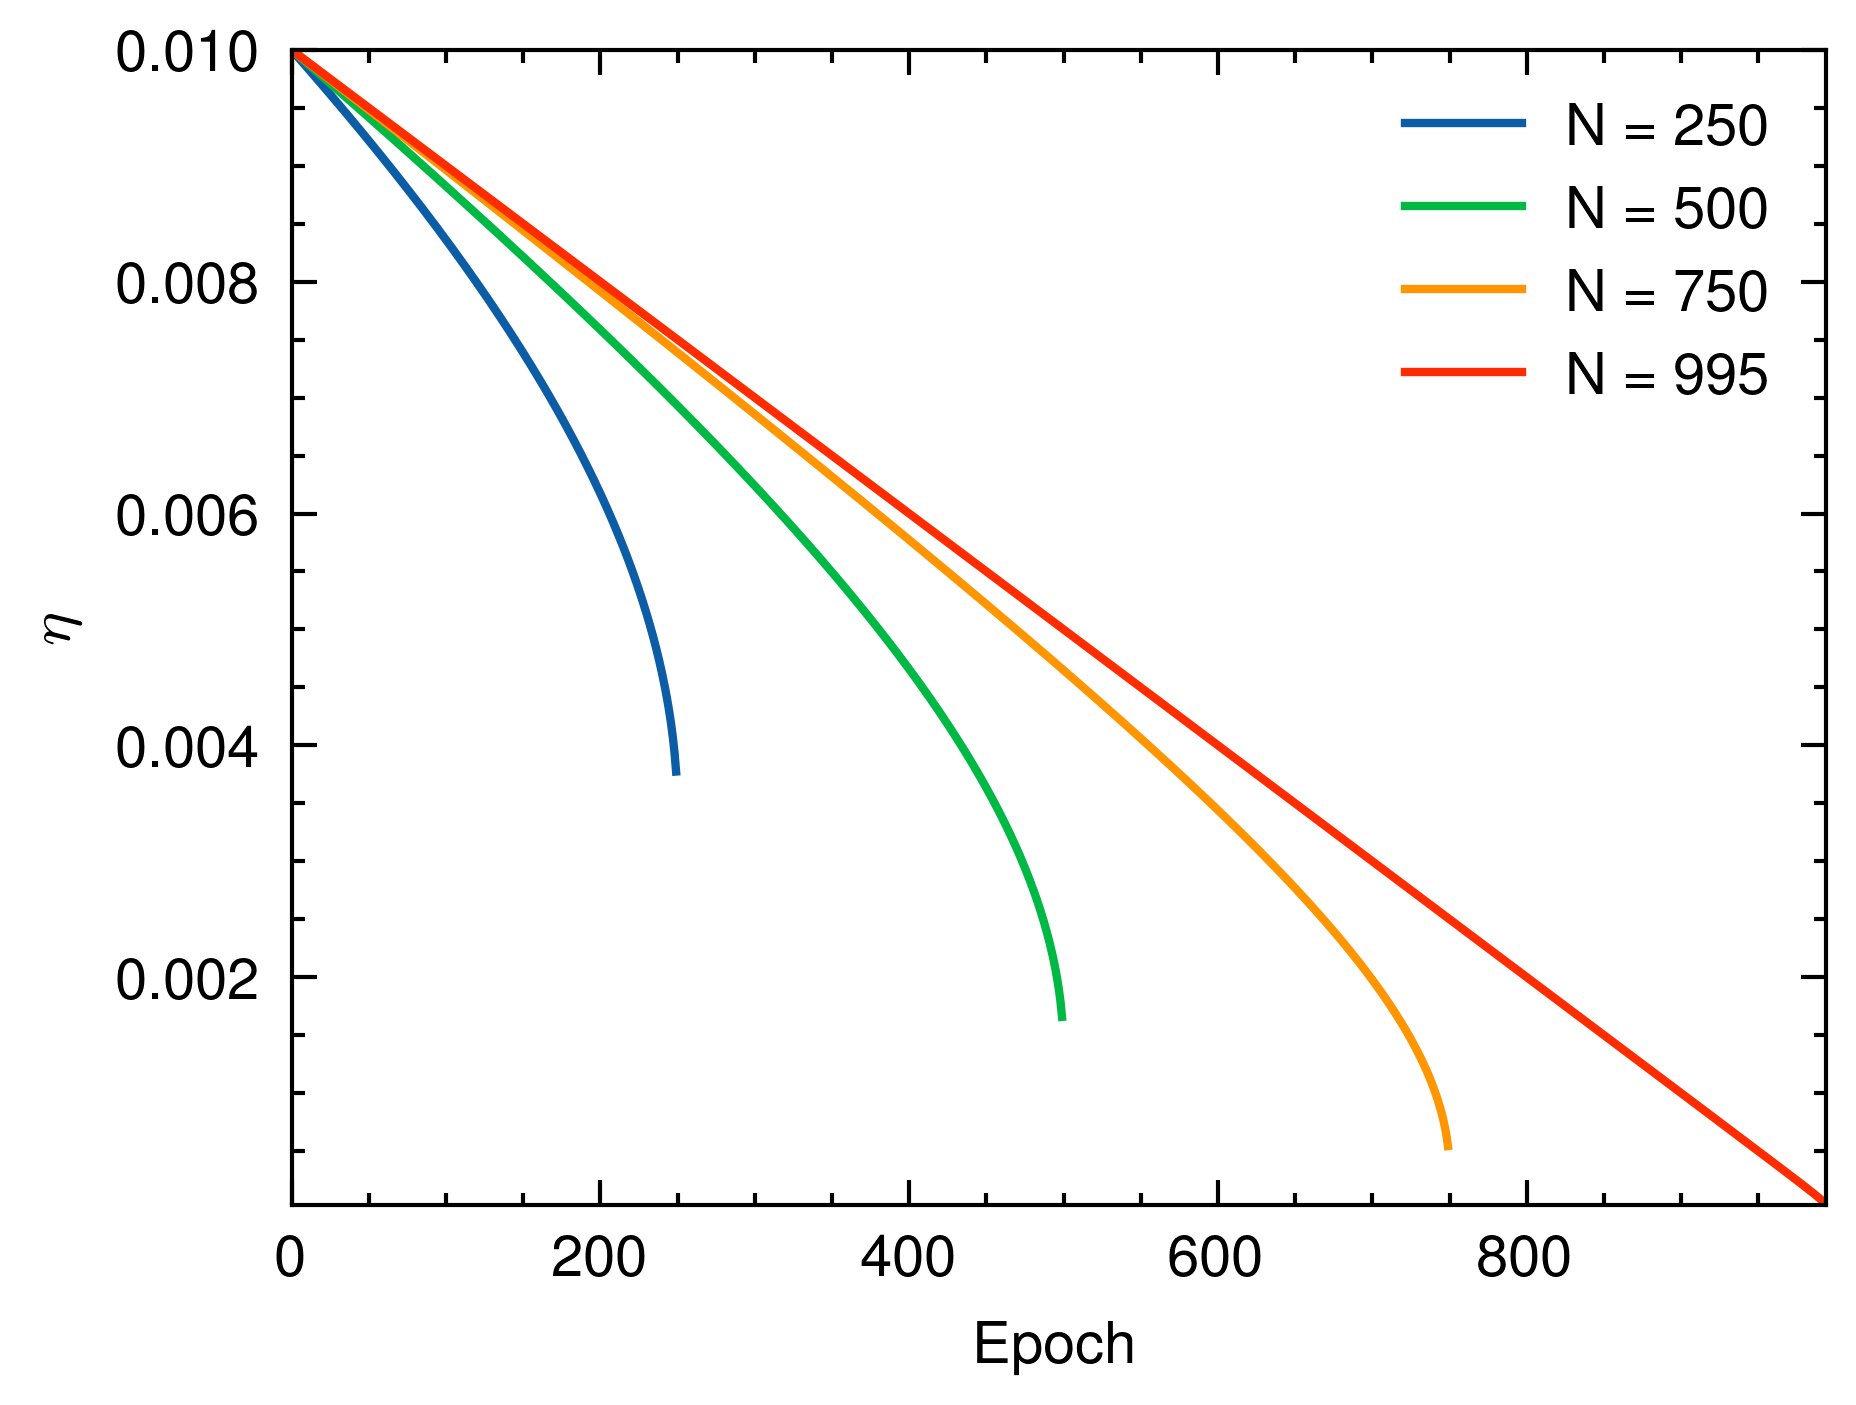
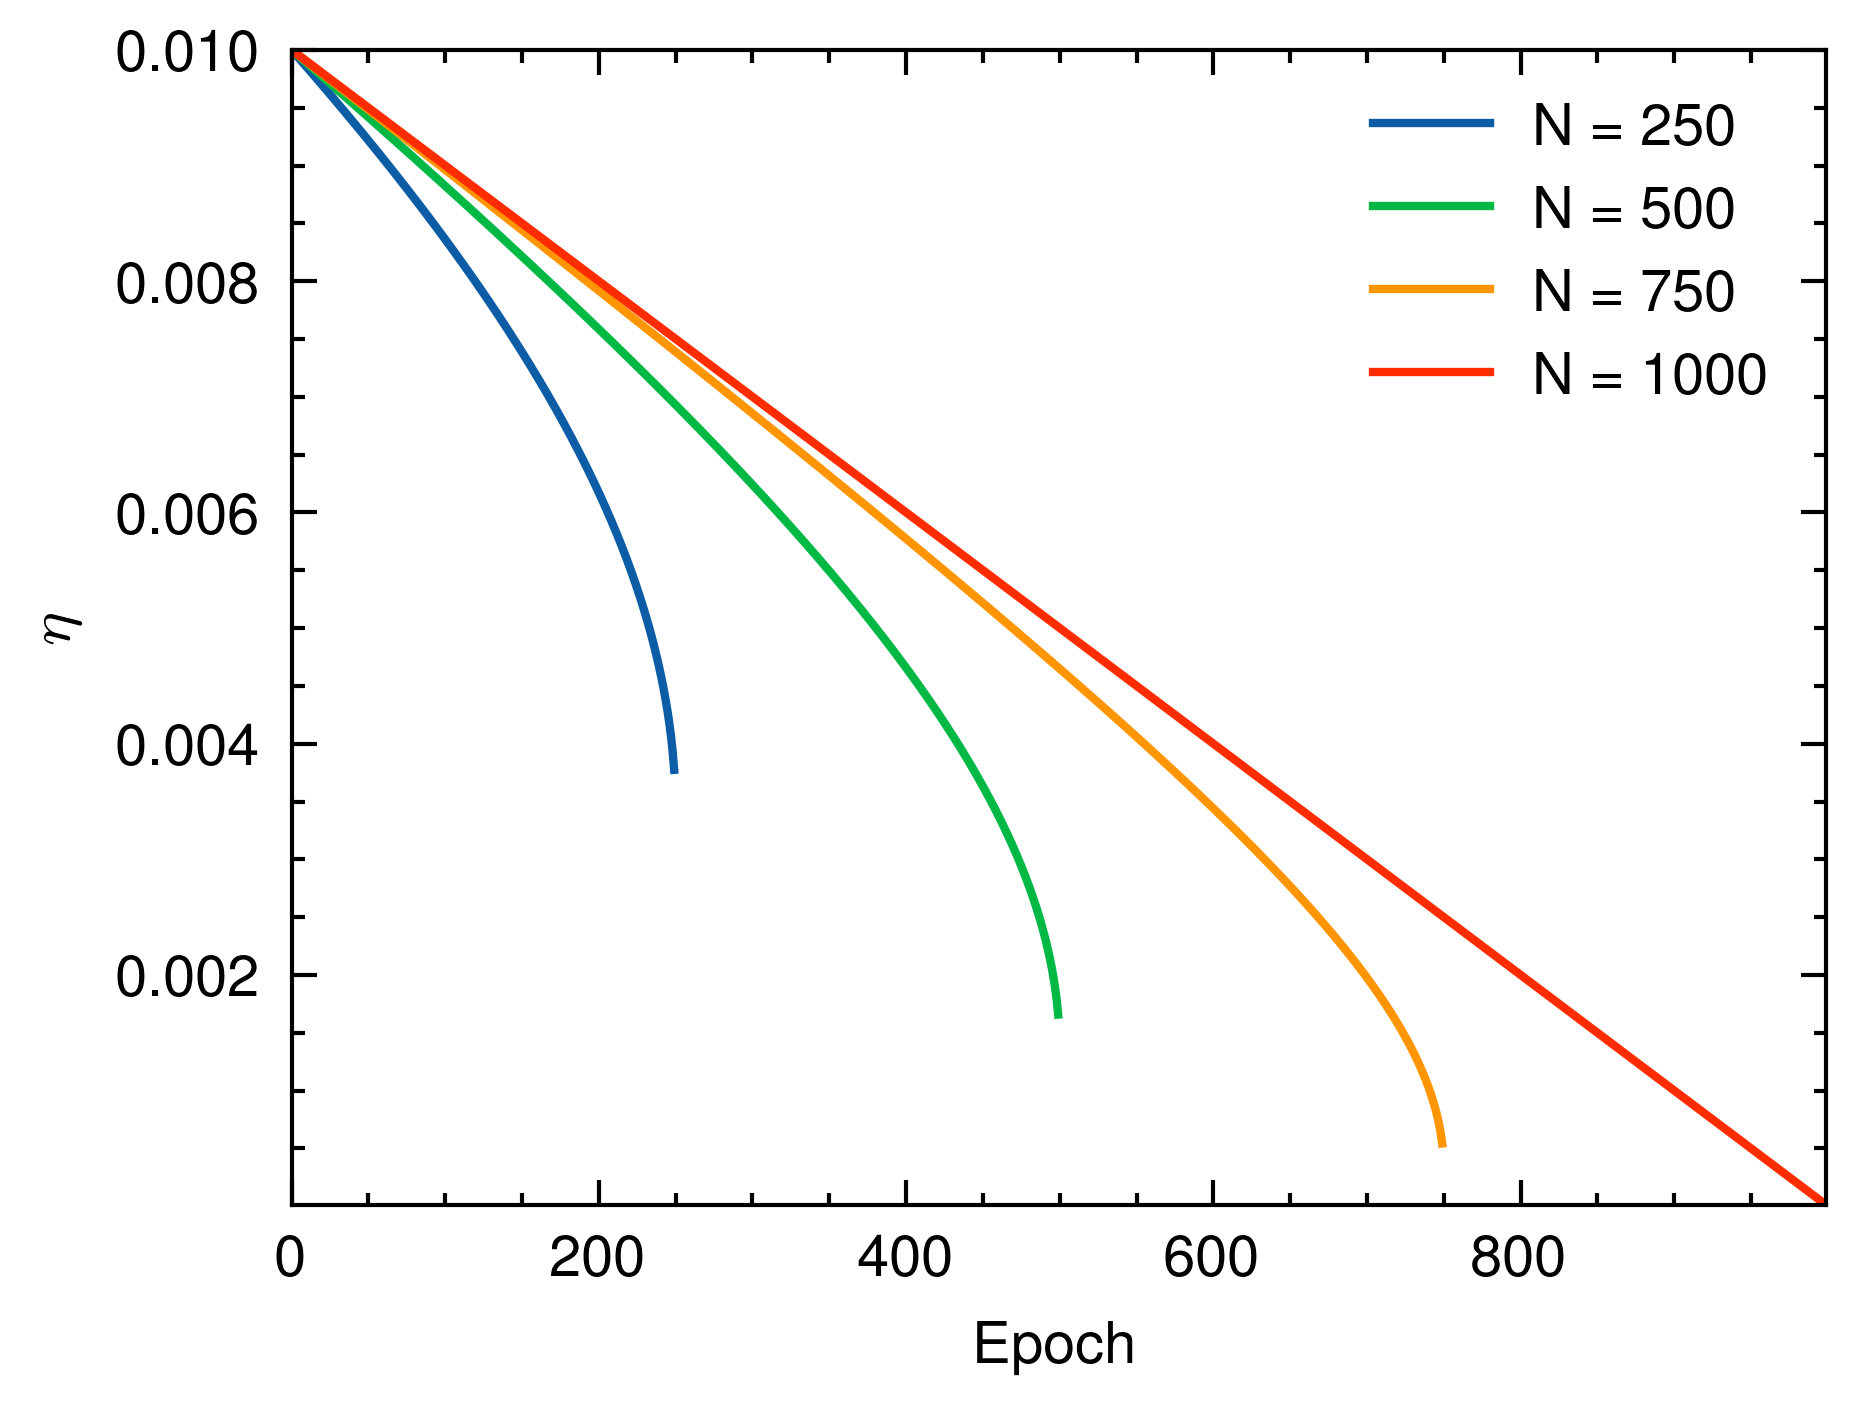
update plot

diff --git a/plot.py b/plot.py
@@ -4,7 +4,7 @@ import numpy as np
 
 # Prepare Data to Plot
 U = 1000
-N_vec = np.array([250, 500, 750, 995])
+N_vec = np.array([250, 500, 750, 1000])
 eta_init = 1e-2
 eta_infimum = 1e-6
 delta_eta = eta_init - eta_infimum
@@ -47,5 +47,4 @@ with plt.style.context(["science", "nature"]):
     ax.autoscale(tight=True)
     ax.set(**pparam)
     ax.plot(N_vec, eta_grad_vec)
-    ax.legend()
     fig.savefig('plot_grad.png', dpi=600, bbox_inches='tight')
